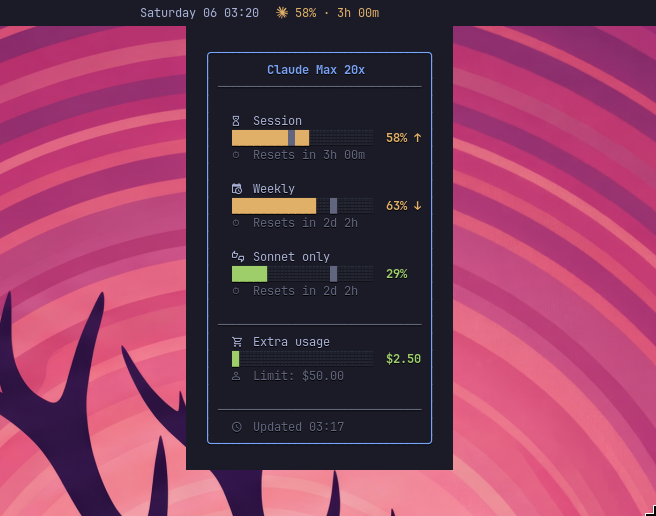
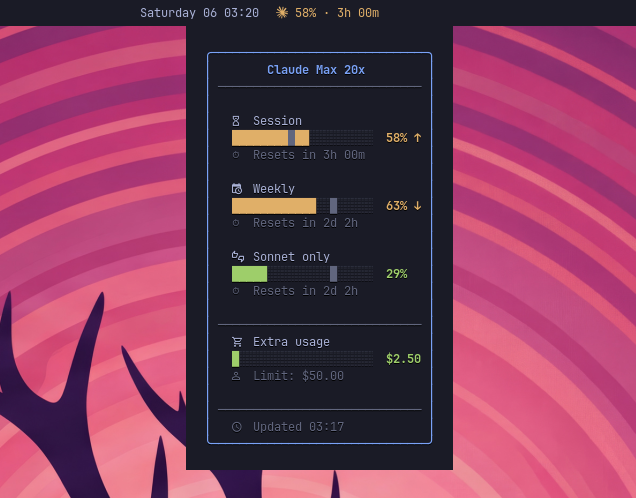
docs: center hero images + crop screenshot-tool corner artifact

diff --git a/README.md b/README.md
@@ -5,11 +5,13 @@
 
 Waybar widget that shows your Claude AI usage limits — session, weekly, and per-model — with colored progress bars and countdown timers.
 
-![claudebar in Waybar](screenshots/bar.png)
+<p align="center">
+  <img src="screenshots/bar.png" alt="claudebar in Waybar" width="520">
+</p>
 
 <p align="center">
   <em>A compact line in your bar — hover for the full usage breakdown:</em><br><br>
-  <img src="screenshot.png" alt="claudebar tooltip" width="480">
+  <img src="screenshot.png" alt="claudebar tooltip" width="460">
 </p>
 
 ## Features